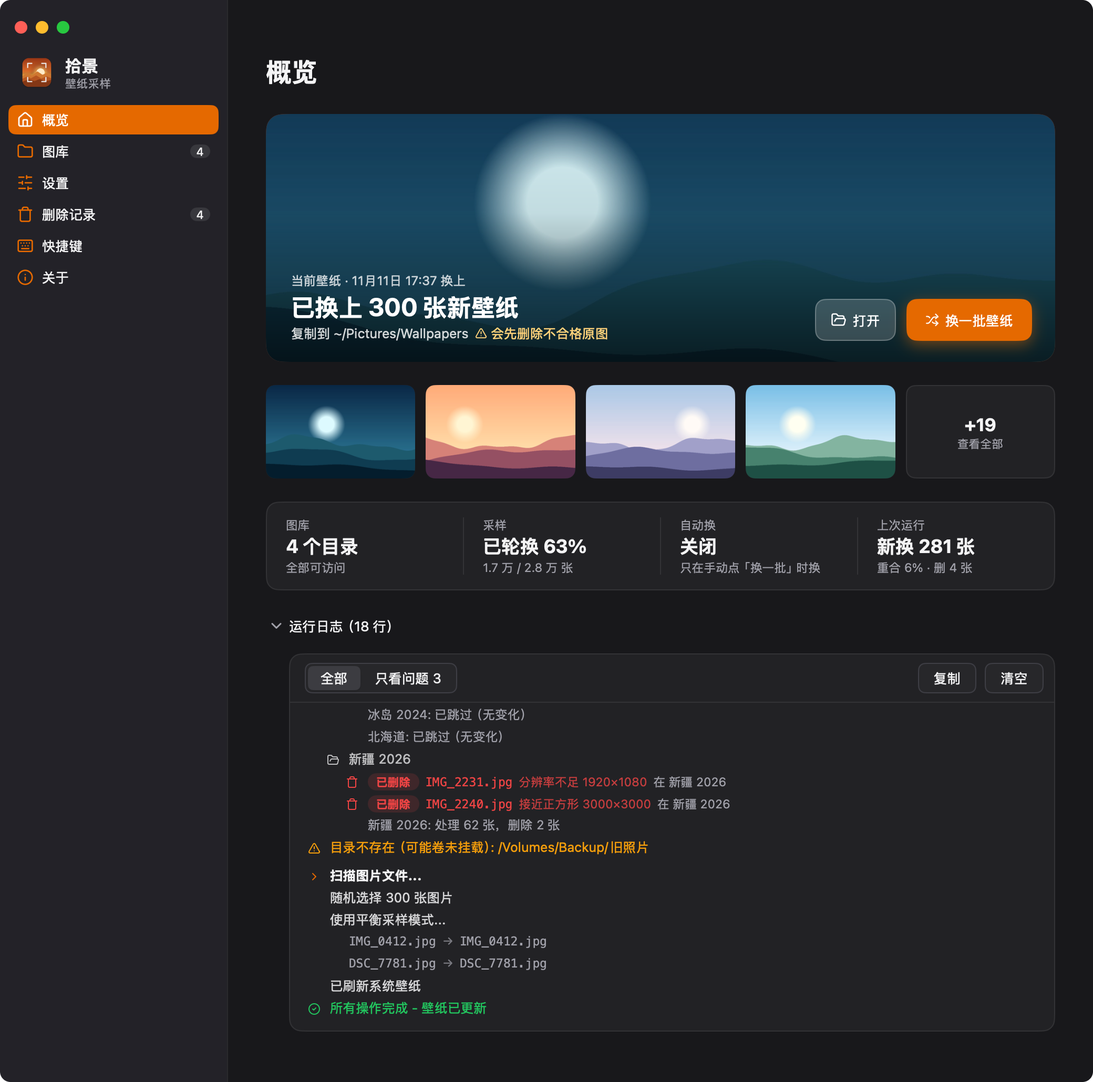
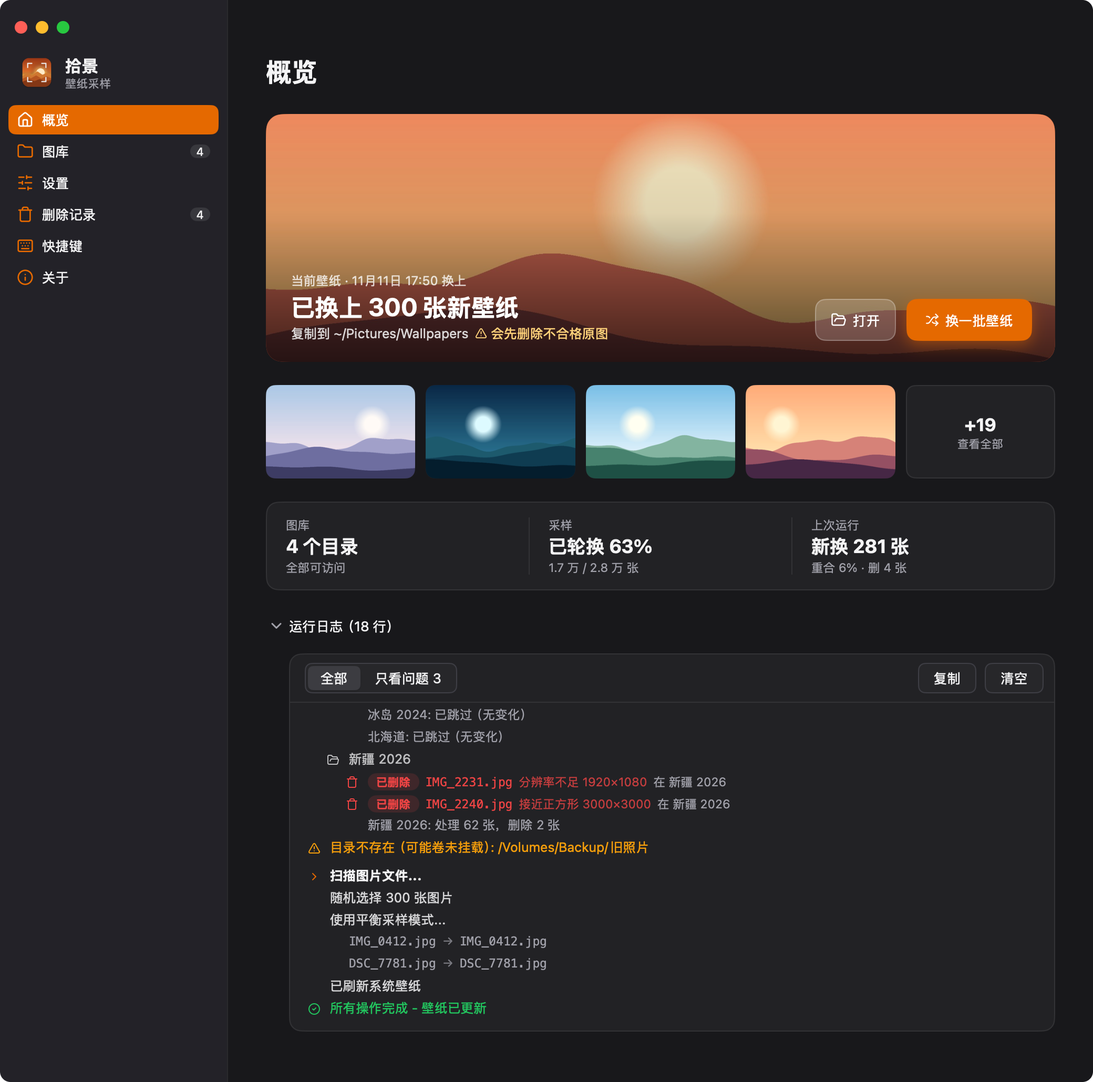
feat(拾景): 壁纸顺序固定（按文件名哈希排，换一批前不变）、预览支持滚轮 / 触控板翻页、大窗口和全屏时预览更大（按 3200 像素解码）、设置等页面窗口宽时居中、自动换没打开时不在摘要条占一格

Changed region(s): [[0.2188, 0.0932, 0.9688, 0.5282]]

diff --git a/desktop/preview.go b/desktop/preview.go
@@ -144,7 +144,7 @@ func (a *app) loadPreview(path string) {
 	}
 	a.previewFor, a.previewImg = path, nil
 	go func() {
-		img := loadScaled(path, heroWidth)
+		img := loadScaled(path, previewWidth)
 		if img == nil {
 			return
 		}
@@ -168,6 +168,46 @@ func (a *app) previewBitmap(wall string) *ui.Bitmap {
 		return a.walls.hero
 	}
 	return nil
+}
+
+// wheelStep 让鼠标滚轮 / 触控板在预览里翻页：往下（或往右）是下一张。
+// 滚轮一格翻一张；触控板的小位移攒够 wheelPage 才翻，手指离开后的惯性滚动不算，免得一下翻过好几张。
+func (a *app) wheelStep(ev ui.InputEvent, step func(int)) bool {
+	if ev.Kind != ui.InputScroll {
+		return false
+	}
+	d := ev.DY
+	if abs32(ev.DX) > abs32(d) {
+		d = ev.DX
+	}
+	switch {
+	case ev.Momentum:
+	case !ev.Precise:
+		if d != 0 {
+			step(sign32(d))
+		}
+	default:
+		a.wheelAcc += d
+		if abs32(a.wheelAcc) >= wheelPage {
+			step(sign32(a.wheelAcc))
+			a.wheelAcc = 0
+		}
+	}
+	return true // 预览里没有要滚动的东西，滚动都在这里接住
+}
+
+const (
+	wheelPage     = 60 // 触控板滑多远（DIP）翻一张
+	previewMargin = 48 // 预览弹层离窗口边缘至少这么远
+)
+
+func abs32(x float32) float32 { return max(x, -x) }
+
+func sign32(x float32) int {
+	if x < 0 {
+		return -1
+	}
+	return 1
 }
 
 // fitBox 让预览框和图片同比例（不留黑边），并且不超过 maxW × maxH。
@@ -195,7 +235,7 @@ func (a *app) previewModal(c *ui.Context) {
 	if a.preview {
 		a.loadPreview(w.all[a.previewIdx])
 	} else {
-		a.jumpBuf = ""
+		a.jumpBuf, a.wheelAcc = "", 0
 	}
 	vw, vh := c.Size()
 	wasOpen := a.preview
@@ -211,9 +251,11 @@ func (a *app) previewModal(c *ui.Context) {
 			iw, ih = bmp.Size()
 		}
 		a.previewKeys(c, wall, src != "", step)
-		// 图片框和图片同比例，整个弹层始终比主窗口小
-		boxW, boxH := fitBox(iw, ih, min(vw*0.86, 1200)-40, vh*0.86-190)
-		ui.Column(c).Width(min(max(boxW+40, 760), vw*0.9)).Gap(14).Padding(20).AlignItems(ui.Center).Children(func() {
+		// 图片框和图片同比例；弹层四周留 previewMargin（别压到红绿灯），窗口越大图越大，全屏时也铺得开。
+		// 下面的文字和按钮约占 190，左右内边距 40
+		boxW, boxH := fitBox(iw, ih, vw-2*previewMargin-40, vh-2*previewMargin-190)
+		ui.Column(c).Width(min(max(boxW+40, 760), vw-2*previewMargin)).Gap(14).Padding(20).AlignItems(ui.Center).
+			HandleInput(func(ev ui.InputEvent) bool { return a.wheelStep(ev, step) }).Children(func() {
 			// 焦点放在图片上而不是第一个按钮上：按钮有焦点时空格 / 回车会按下它，翻页的空格就不灵了
 			box := ui.Box(c).Size(boxW, boxH).Radius(10).Clip().Label("预览图片").Focusable().FocusRing(false).AutoFocus()
 			if bmp == nil {

diff --git a/desktop/thumbs.go b/desktop/thumbs.go
@@ -1,11 +1,12 @@
 package main
 
 import (
+	"hash/fnv"
 	"image"
 	"maps"
-	"math/rand/v2"
 	"os"
 	"path/filepath"
+	"slices"
 	"sync"
 
 	"desktop/core"
@@ -22,10 +23,11 @@ const (
 	maxThumbs     = 71   // 最多显示几张（stripLayout 的上限：6 行 × 12 列 - 1）
 	decodeWorkers = 4    // 同时解码几张：原图可能是几千万像素，全部同时解码内存吃不消
 	heroWidth     = 1600 // 横幅图缩到的宽度（像素，Retina 下约 800 DIP）
+	previewWidth  = 3200 // 大图预览解码到的宽度（像素）：全屏预览时也不糊
 	thumbWidth    = 360  // 缩略图宽度（像素）
 )
 
-// wallpapers 是壁纸文件夹的快照。all 是全部图片（打乱后的顺序，横幅图也在内），大图预览按它翻；
+// wallpapers 是壁纸文件夹的快照。all 是全部图片（shuffleStable 排过的固定顺序，横幅图也在内），大图预览按它翻；
 // 缩略图网格按 all 的顺序排、去掉横幅图和读不了的（grid）。缩略图按路径存在 thumbs 里，还没解码的不在里面。
 type wallpapers struct {
 	dir      string
@@ -72,7 +74,7 @@ func scanWallpapers(dir string) scannedWallpapers {
 		}
 		files = append(files, filepath.Join(dir, e.Name()))
 	}
-	rand.Shuffle(len(files), func(i, j int) { files[i], files[j] = files[j], files[i] })
+	shuffleStable(files)
 	res.all = files
 
 	// 横幅图要够宽；不够宽的那张拿来当缩略图，读不了的记下来
@@ -95,6 +97,26 @@ func scanWallpapers(dir string) scannedWallpapers {
 	}
 	maps.Copy(res.thumbs, decodeThumbs(todo))
 	return res
+}
+
+// shuffleStable 把图片排成看起来随机、但每次打开都一样的顺序：按文件名的哈希排。
+// 不换一批时顺序不变，方便一张张筛；移出一张也不会打乱其余的先后。每一批的文件名不同，所以每批的顺序各不相同。
+func shuffleStable(files []string) {
+	key := func(f string) uint64 {
+		h := fnv.New64a()
+		h.Write([]byte(filepath.Base(f)))
+		return h.Sum64()
+	}
+	slices.SortStableFunc(files, func(x, y string) int {
+		kx, ky := key(x), key(y)
+		switch {
+		case kx < ky:
+			return -1
+		case kx > ky:
+			return 1
+		}
+		return 0
+	})
 }
 
 // decodeThumbs 并发解码 files 的缩略图；读不了的值为 nil。

diff --git a/desktop/undo_test.go b/desktop/undo_test.go
@@ -128,3 +128,48 @@ func TestPreviewJumpToNumber(t *testing.T) {
 		t.Error("没在输入编号时 Esc 应关闭预览")
 	}
 }
+
+func TestPreviewWheelPages(t *testing.T) {
+	f, tt, _, _ := previewFixture(t, "w-a.jpg", "w-b.jpg", "w-c.jpg")
+	tt.SetSize(1000, 800)
+	tt.Frame()
+	x, y := float32(500), float32(400)
+	tt.Wheel(x, y, 0, 40) // 滚轮往下一格：下一张
+	tt.Frame()
+	if f.previewIdx != 1 {
+		t.Fatalf("滚轮往下应翻到下一张，现在是 %d", f.previewIdx)
+	}
+	tt.Wheel(x, y, 0, -40)
+	tt.Frame()
+	if f.previewIdx != 0 {
+		t.Fatalf("滚轮往上应翻回上一张，现在是 %d", f.previewIdx)
+	}
+	for range 3 { // 触控板的小位移攒够一页才翻
+		tt.Scroll(x, y, 0, 15)
+	}
+	tt.Frame()
+	if f.previewIdx != 0 {
+		t.Fatalf("触控板滑得不够远不应翻页，现在是 %d", f.previewIdx)
+	}
+	tt.Scroll(x, y, 0, 20)
+	tt.Frame()
+	if f.previewIdx != 1 {
+		t.Fatalf("触控板攒够距离应翻一页，现在是 %d", f.previewIdx)
+	}
+}
+
+func TestShuffleStable(t *testing.T) {
+	a := []string{"/w/p-1.jpg", "/w/p-2.jpg", "/w/p-3.jpg", "/w/p-4.jpg", "/w/p-5.jpg"}
+	b := slices.Clone(a)
+	slices.Reverse(b)
+	shuffleStable(a)
+	shuffleStable(b)
+	if !slices.Equal(a, b) {
+		t.Fatalf("不管读目录的顺序，排出来应一样: %q vs %q", a, b)
+	}
+	c := slices.DeleteFunc(slices.Clone(a), func(s string) bool { return s == a[2] })
+	shuffleStable(c)
+	if !slices.Equal(c, slices.Delete(slices.Clone(a), 2, 3)) {
+		t.Errorf("去掉一张后其余的先后不应变: %q", c)
+	}
+}

diff --git a/desktop/overview.go b/desktop/overview.go
@@ -288,7 +288,7 @@ func (a *app) thumbStrip(c *ui.Context) {
 	})
 }
 
-// statStrip 是一条四格的摘要：图库、采样（轮换进度）、自动换、上次运行。画质这类纯设置不放这里。
+// statStrip 是一条摘要：图库、采样（轮换进度）、自动换（打开了才有）、上次运行。画质这类纯设置不放这里。
 func (a *app) statStrip(c *ui.Context) {
 	t := c.Theme()
 	dirs := a.allDirs()
@@ -331,12 +331,11 @@ func (a *app) statStrip(c *ui.Context) {
 			sub = "平衡采样"
 		}
 		cell(1, "采样", value, sub, t.TextMuted, tip)
-		auto, next := "关闭", "只在手动点「换一批」时换"
+		// 定时自动换（设置里的「自动换壁纸」）没打开时不占一格
 		if h := a.buildConfig().AutoRunHours; h > 0 {
-			auto = autoRunLabel(h)
-			next = "下一次 " + a.nextAutoRun().Format("1月2日 15:04")
+			cell(2, "自动换", autoRunLabel(h), "下一次 "+a.nextAutoRun().Format("1月2日 15:04"), t.TextMuted,
+				"应用开着时按这个间隔自动换一批（不删原图），在「设置 → 自动换壁纸」里修改或关闭")
 		}
-		cell(2, "自动换", auto, next, t.TextMuted, "")
 
 		switch r := a.last; {
 		case r == nil:

diff --git a/desktop/view.go b/desktop/view.go
@@ -53,15 +53,13 @@ func (a *app) view(c *ui.Context) {
 			sc.Children(func() {
 				col := ui.Column(c).Padding(0, 36, 32, 36).Gap(22)
 				// 概览页铺满窗口，缩略图跟着变多；设置类页面窗口宽时分两栏，窄时单栏（表单太宽不好读）
+				// 其余页面有最大宽度，窗口更宽时居中放（单栏、两栏都一样）
 				switch {
 				case a.page == pageOverview:
-				case a.page == pageAbout:
-					// 关于页内容少，铺宽了显得空：保持单栏宽度，居中放
-					col.Width(min(max(a.viewW, 1), contentMax)).AlignSelf(ui.Center)
-				case a.twoCol():
-					col.MaxWidth(twoColMax)
+				case a.twoCol() && a.page != pageAbout: // 关于页内容少，铺宽了显得空，始终单栏
+					col.Width(min(max(a.viewW, 1), twoColMax)).AlignSelf(ui.Center)
 				default:
-					col.MaxWidth(contentMax)
+					col.Width(min(max(a.viewW, 1), contentMax)).AlignSelf(ui.Center)
 				}
 				a.pageH = col.LayoutBounds().H
 				if a.page != pageKeys && a.recording != "" {

diff --git a/desktop/app.go b/desktop/app.go
@@ -93,8 +93,9 @@ type previewState struct {
 	previewImg     *ui.Bitmap
 	previewFor     string // previewImg 是哪个文件的
 	confirmDelSrc  bool
-	pendingDelWall string // 要删除原图的那张壁纸（壁纸文件夹里的路径）
-	jumpBuf        string // 正在输入的跳转编号
+	pendingDelWall string  // 要删除原图的那张壁纸（壁纸文件夹里的路径）
+	jumpBuf        string  // 正在输入的跳转编号
+	wheelAcc       float32 // 触控板滚动攒下的距离，够一页翻一张（wheelStep）
 	undo           []removedWall
 	undoSeq        int
 }

diff --git a/CLAUDE.md b/CLAUDE.md
@@ -64,18 +64,18 @@ NAS/网络卷上同步来的文件经常带有 `SF_ARCHIVED`（superuser-only）
 - 依赖 MyGo v0.8.x（0.x 阶段，小版本升级可能改 API）。升级前读 `desktop/.agents/skills/mygo-maintenance/SKILL.md`，用 `go tool mygo migrate-ui .` 预览迁移；改完跑 `go tool mygo vet .` 和 `CGO_ENABLED=0 go test ./...`。
 - 配置、增量状态、删除日志、窗口位置都在 `~/Library/Application Support/拾景/`，不是仓库目录（`.app` 位置不固定，不能像 Python 版那样相对脚本目录找文件）。状态文件故意不和 Python 版共享。改名前叫「壁纸工具」，`main.go` 启动时会用 `core.MigrateDataDir` 把旧目录搬过来（新目录已存在就不动）。以后再改 `appName` 也要照此迁移，否则用户配置会"丢"。
 - 窗口用 `TitleBarHiddenInset` + `VibrancySidebar`：侧边栏顶部和内容区顶部各留了一条 `DragWindow()` 的拖拽区，侧边栏背景透明才能透出毛玻璃（`c.Vibrancy()` 为 false 时退回纯色）。配色和通用组件（`panel`/`group`/`settingRow`/`sceneArt` 插画）集中在 `theme.go`。强调色是橙色（用户定的，v0.3.11 起：浅色 #E45C00、深色 #E56900），改的话 iOS 的 `Assets.xcassets/AccentColor` 要一起改；应用图标（`desktop/resources/icon.png` 和 iOS 的 `AppIcon.png`）v0.3.12 起也是橙色日落，是用 `desktop/scripts/recolor_icon.py` 从原来的紫色图标换算的；`make_icon.py` 是更早的画法，和现在的图标对不上。横幅插画（`sceneArt`）的颜色取自图标、用同一套换算。
-- 概览页缩略图由 `thumbs.go` 的 `scanWallpapers` 在后台解码缩小，`Bitmap` 回主线程再建；只读本地 `dest_dir`，运行结束 `wallsGen++` 触发重读。缩略图网格的行列数由 `stripLayout` 按**上一帧**量到的尺寸算（网格宽度定列数，滚动区高度 − 页面其余部分高度定行数，后者与行数无关所以不会来回跳），算出来变了就 `c.AnimationFrame()` 再排一帧；概览页不受 `contentMax` 限制、铺满窗口宽度。先解码 `initialThumbs` 张，放得下更多时 `loadMoreThumbs` 接着解码网格前面还没解码的（`decodeWorkers` 限并发，原图很大）。壁纸列表只有一份 `walls.all`（打乱后的顺序，横幅图也在内），缩略图按路径存在 `walls.thumbs`（值为 nil 表示读不了），网格是 `walls.grid()`（去掉横幅图和读不了的）——别再加平行的切片，移出 / 撤销只需要改 `all`。网格最后一格「+N」在预览里从第一张没显示的开始翻；Finder 里打开用横幅上的「打开」。`app.scanWallpapers` 是注入的，测试里设成 nil，界面测试不读真实目录。
+- 概览页缩略图由 `thumbs.go` 的 `scanWallpapers` 在后台解码缩小，`Bitmap` 回主线程再建；只读本地 `dest_dir`，运行结束 `wallsGen++` 触发重读。缩略图网格的行列数由 `stripLayout` 按**上一帧**量到的尺寸算（网格宽度定列数，滚动区高度 − 页面其余部分高度定行数，后者与行数无关所以不会来回跳），算出来变了就 `c.AnimationFrame()` 再排一帧；概览页不受 `contentMax` 限制、铺满窗口宽度。先解码 `initialThumbs` 张，放得下更多时 `loadMoreThumbs` 接着解码网格前面还没解码的（`decodeWorkers` 限并发，原图很大）。壁纸列表只有一份 `walls.all`（`shuffleStable` 按文件名哈希排的顺序：看着随机，但不换一批时每次打开都一样，方便逐张筛——用户要求，别改回 `rand.Shuffle`；横幅图也在内），缩略图按路径存在 `walls.thumbs`（值为 nil 表示读不了），网格是 `walls.grid()`（去掉横幅图和读不了的）——别再加平行的切片，移出 / 撤销只需要改 `all`。网格最后一格「+N」在预览里从第一张没显示的开始翻；Finder 里打开用横幅上的「打开」。`app.scanWallpapers` 是注入的，测试里设成 nil，界面测试不读真实目录。
 - 「换上时间」和「上次运行」来自 `ui_state.json`（`uistate.go`），**不要**改用壁纸文件夹里文件的 mtime：复制时 `copyFile` 会用 `Chtimes` 保留原图的修改时间，那是原图的时间，不是换上的时间。命令行跑的不会写这个文件。
 - v0.3.0 加的几样，改相关代码时注意：
   - **优先选没换上过的**（`prefer_unseen`）：`selection_history.json` 是这一轮轮换里换上过的原图路径集合；没换上过的不够一批时全部选上、差的从换上过的里补，并把历史重置成只有这一批（`NewCycle`）。只在复制完整跑完后写。`CopyResult.Rotated` / `Candidates` 是轮换进度。
   - **删除日志**每行 4 列（时间、阈值、路径、原因），旧日志只有 3 列，`core.ReadDeleteLog` 两种都认；不合格原因来自 `core.ImageVerdict`。筛选时每张不合格的图只打一行日志：真删「🔥 已删除: 名  (原因)」/「❌ 删除失败」，模拟「🗑 待删除: 名  (原因)」——界面 `parseLogLine` 按两个空格加括号拆出原因，`countDeletion` 数这些行。
-  - **大图预览**按 `walls.all`（壁纸文件夹里全部图片，打乱后的顺序）翻，不只是缩略图那几张；没缩略图的先显示「正在载入…」，后台 `loadPreview` 解码。图片框用 `fitBox` 按图片比例算尺寸（不留黑边），整个弹层不超过主窗口。快捷键可以自定义（侧边栏「快捷键」页，`keysview.go`）：可改的操作和默认值在 `shortcuts.go` 的 `keyActions`，配置 `Shortcuts` 只存改过的；`fixedKeys` 是不许占用的。菜单栏三项由 `a.setMenuKeys` 同步（录制时先撤掉，免得按 ⌘R 真的开始运行）。预览按键在 `previewKeys`，必须在 `Modal` 回调里调 `c.Shortcut`，外面收不到；回车被弹层里有焦点的按钮占着，不能当快捷键，所以预览打开时焦点放在图片上。预览默认是空格 / ⇧空格翻页（固定键，← → 是可改的那一套）、J K L 按轻重排移出 / 不再选 / 删除原图（用户定的，手不离主键区）。移出可以 ⌘Z 撤销（`undo.go`）：移出时文件挪进数据目录 `undo/` 暂存，撤销时挪回、放回原位置并去掉这次加的「不再选」；启动时和开始换一批前清空。⌘Z 要靠 `c.Shortcut(Cmd, KeyZ)` 注册了，「编辑」菜单的撤销才会亮、按键才传得到（MyGo 把没人接的编辑命令转成快捷键）；预览开着时在 Modal 里注册，关着时在 `view` 里。预览里数字键输入编号、回车跳转（`jumpKeys`，0–9 在 `fixedKeys` 里）；正在输入时 Esc 会先被 Modal 自己接走关掉预览，所以在 `previewModal` 里看到「刚被关掉且有编号」就重新打开、只清编号。新加可快捷操作时加进 `keyActions`，`TestDefaultShortcutsDoNotClash` 会检查默认值不冲突。三种操作的文案集中在 `preview.go` 的 `act*` 常量：「移出」只删壁纸文件夹里那份，「删除图库里的原图」才动原图——改文案时保持这个区分。
+  - **大图预览**按 `walls.all`（壁纸文件夹里全部图片，固定顺序）翻，不只是缩略图那几张；没缩略图的先显示「正在载入…」，后台 `loadPreview` 解码。图片框用 `fitBox` 按图片比例算尺寸（不留黑边），弹层四周留 `previewMargin`、没有别的上限，全屏时图跟着变大（大图按 `previewWidth` 解码）。鼠标滚轮 / 触控板也能翻页（`wheelStep`：滚轮一格一张，触控板攒够 `wheelPage` 才翻、惯性滚动不算）。快捷键可以自定义（侧边栏「快捷键」页，`keysview.go`）：可改的操作和默认值在 `shortcuts.go` 的 `keyActions`，配置 `Shortcuts` 只存改过的；`fixedKeys` 是不许占用的。菜单栏三项由 `a.setMenuKeys` 同步（录制时先撤掉，免得按 ⌘R 真的开始运行）。预览按键在 `previewKeys`，必须在 `Modal` 回调里调 `c.Shortcut`，外面收不到；回车被弹层里有焦点的按钮占着，不能当快捷键，所以预览打开时焦点放在图片上。预览默认是空格 / ⇧空格翻页（固定键，← → 是可改的那一套）、J K L 按轻重排移出 / 不再选 / 删除原图（用户定的，手不离主键区）。移出可以 ⌘Z 撤销（`undo.go`）：移出时文件挪进数据目录 `undo/` 暂存，撤销时挪回、放回原位置并去掉这次加的「不再选」；启动时和开始换一批前清空。⌘Z 要靠 `c.Shortcut(Cmd, KeyZ)` 注册了，「编辑」菜单的撤销才会亮、按键才传得到（MyGo 把没人接的编辑命令转成快捷键）；预览开着时在 Modal 里注册，关着时在 `view` 里。预览里数字键输入编号、回车跳转（`jumpKeys`，0–9 在 `fixedKeys` 里）；正在输入时 Esc 会先被 Modal 自己接走关掉预览，所以在 `previewModal` 里看到「刚被关掉且有编号」就重新打开、只清编号。新加可快捷操作时加进 `keyActions`，`TestDefaultShortcutsDoNotClash` 会检查默认值不冲突。三种操作的文案集中在 `preview.go` 的 `act*` 常量：「移出」只删壁纸文件夹里那份，「删除图库里的原图」才动原图——改文案时保持这个区分。
   - **缩略图 → 原图**：`last_selection.json` 里 `dests` 和 `sources` 一一对应，`core.WallpaperSources` 读成「壁纸文件名 → 原图」；旧版本换上的没有 `dests`，缩略图菜单里就不出现「不再选它 / 删除原图」。
   - **定时自动换**（`auto_run_hours`）：`main.go` 里每分钟 `maybeAutoRun`，从上次运行（没运行过从应用启动）开始计时；`startRunWith(true)` 会强制 `DeleteDuringFilter=false`，自动运行永远不删原图。
   - 图库统计、空间预估用 `a.lastGood`（最近一次成功运行，存在 `ui_state.json` 的 `last_success`），因为运行中 / 失败后 `a.last` 不是成功的结果。
 - 页面分文件：`view.go` 只有窗口骨架和侧边栏，概览 / 图库 / 设置在 `overview.go` / `library.go` / `settings.go`。归档（v0.3.10 起）不再单独一页，是设置里的「归档」分组，开关打开后才显示位置和跨挂载点那几项；侧边栏是 概览、图库、设置、删除记录、快捷键、关于（⌘1–5）。侧边栏底部平时不显示东西，只在配置保存失败时出红字。`app` 的字段按用途收进嵌入的 `runStats`（运行进度和删除计数，开始运行时整体清零）、`previewState`、`keyRecorder`。
-- 概览的摘要条只放状态（图库挂载、轮换进度、自动换的下一次、上次运行），画质这类纯设置不放；「会删原图」的提醒在横幅副标题里，点「换一批」时还有确认框。
-- 页面宽度策略（`view.go`）：概览页铺满；其余页面按上一帧量到的内容区宽度 `a.viewW` 决定——`a.twoCol()`（内容区 ≥ `twoColMin`）时设置 / 图库用 `a.columns` 排成左右两栏、最宽 `twoColMax`，窄时单栏、最宽 `contentMax`；关于页始终单栏居中。新加设置分组时放进 `columns` 的左栏或右栏，注意两栏高度大致平衡。概览横幅图（`walls.heroPath`）也能点开预览，所以预览序号从横幅图算起。
+- 概览的摘要条只放状态（图库挂载、轮换进度、自动换的下一次——只在打开了定时自动换时出现、上次运行），画质这类纯设置不放；「会删原图」的提醒在横幅副标题里，点「换一批」时还有确认框。
+- 页面宽度策略（`view.go`）：概览页铺满；其余页面按上一帧量到的内容区宽度 `a.viewW` 决定——`a.twoCol()`（内容区 ≥ `twoColMin`）时设置 / 图库用 `a.columns` 排成左右两栏、最宽 `twoColMax`，窄时单栏、最宽 `contentMax`；窗口更宽时都居中放；关于页始终单栏。新加设置分组时放进 `columns` 的左栏或右栏，注意两栏高度大致平衡。概览横幅图（`walls.heroPath`）也能点开预览，所以预览序号从横幅图算起。
 - 「上次运行」的「新换 N 张 / 重合率」来自 `core.compareSelection`：按**原图路径**比（壁纸文件夹里的文件名会因重名被改写，不能拿来比），上一轮的选择存在数据目录的 `last_selection.json`（命令行也会写），没有记录（刚升级、换了壁纸文件夹）时，在清空壁纸文件夹**之前**读里面现有的文件名，按 `destName`（「上级文件夹-原名」）近似比较（`PrevByName`）。只在复制完整跑完后写，被停止的不算一轮。运行卡片上的删除计数是 `app.countDeletion` 从日志行里数的，改 `sorter.go` 的「待删除 / 已删除 / 删除失败」日志格式要同步改这里。
 - 停止靠 `core.Reporter.Stop`：筛选在文件夹之间检查（没检查的目录不写进增量状态，否则下次会被当成"没变化"跳过）、清空壁纸目录前检查一次、复制时不再开始新任务；被停止返回 `core.ErrCanceled`。新加耗时步骤时记得在安全点检查它。
 - 删除原图前的确认框是注入的 `app.confirmDelete`（测试里可以替换）；「不再提示」存在 `ui_state.json`，`view` 发现「删除不合格原图」被重新打开时恢复确认。

diff --git a/README.md b/README.md
@@ -23,7 +23,7 @@
    - **筛选 + 采样**：先删掉竖屏、正方形、分辨率不够的原图，再参与采样
    - **仅采样**：不删任何文件，采样时跳过不合格的图片，适合收藏夹这类不想动的目录
 2. **设置**：选壁纸文件夹、每次张数、最低分辨率（4K / 5K / 2K / 1080p / 自定义）。改动自动保存。
-3. **概览**：点「换一批壁纸」（⌘R）。依次 筛选 → 采样 → 复制 → 刷新系统壁纸，系统的文件夹轮换会立刻用上新的一批。缩略图按窗口大小铺满；点一张看大图，←→ 可以翻看这一批的全部壁纸；预览里和右键菜单都可以「移出壁纸文件夹」「移出并不再选它」（这两个都不动原图），或「删除图库里的原图」（不可撤销）。预览可以全程用键盘，手不用离开主键区：空格 / ⇧空格（或 ←→）切换，J 移出，K 移出并不再选，L 删除原图（回车确认），⌘Z 撤销刚才的移出（J、K 和右键菜单的移出都能撤销，删除原图不能），直接输入编号再按回车跳到那一张，O 用默认应用打开，F 在 Finder 中显示原图，Esc 关闭；按钮上都标着快捷键（可以在「快捷键」页改）。
+3. **概览**：点「换一批壁纸」（⌘R）。依次 筛选 → 采样 → 复制 → 刷新系统壁纸，系统的文件夹轮换会立刻用上新的一批。缩略图按窗口大小铺满，顺序在下次换一批之前固定不变；点一张看大图（窗口越大预览越大，全屏也行），←→ 或鼠标滚轮可以翻看这一批的全部壁纸；预览里和右键菜单都可以「移出壁纸文件夹」「移出并不再选它」（这两个都不动原图），或「删除图库里的原图」（不可撤销）。预览可以全程用键盘，手不用离开主键区：空格 / ⇧空格（或 ←→）切换，J 移出，K 移出并不再选，L 删除原图（回车确认），⌘Z 撤销刚才的移出（J、K 和右键菜单的移出都能撤销，删除原图不能），直接输入编号再按回车跳到那一张，O 用默认应用打开，F 在 Finder 中显示原图，Esc 关闭；按钮上都标着快捷键（可以在「快捷键」页改）。
 
 <table>
   <tr>
